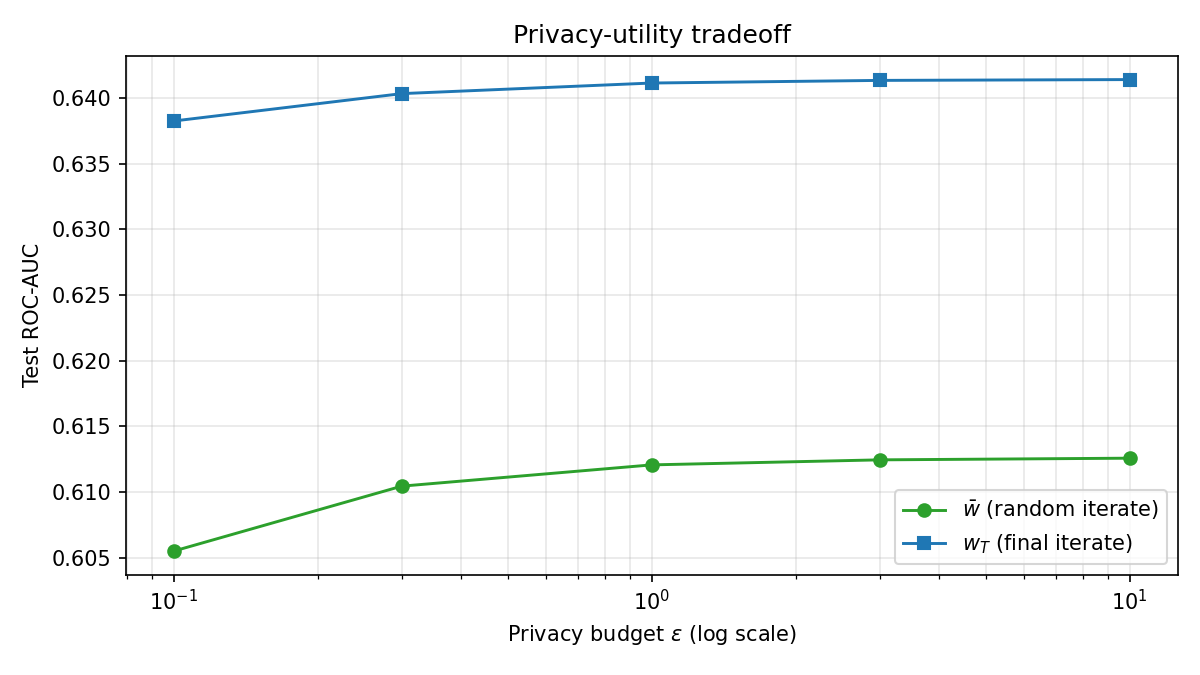
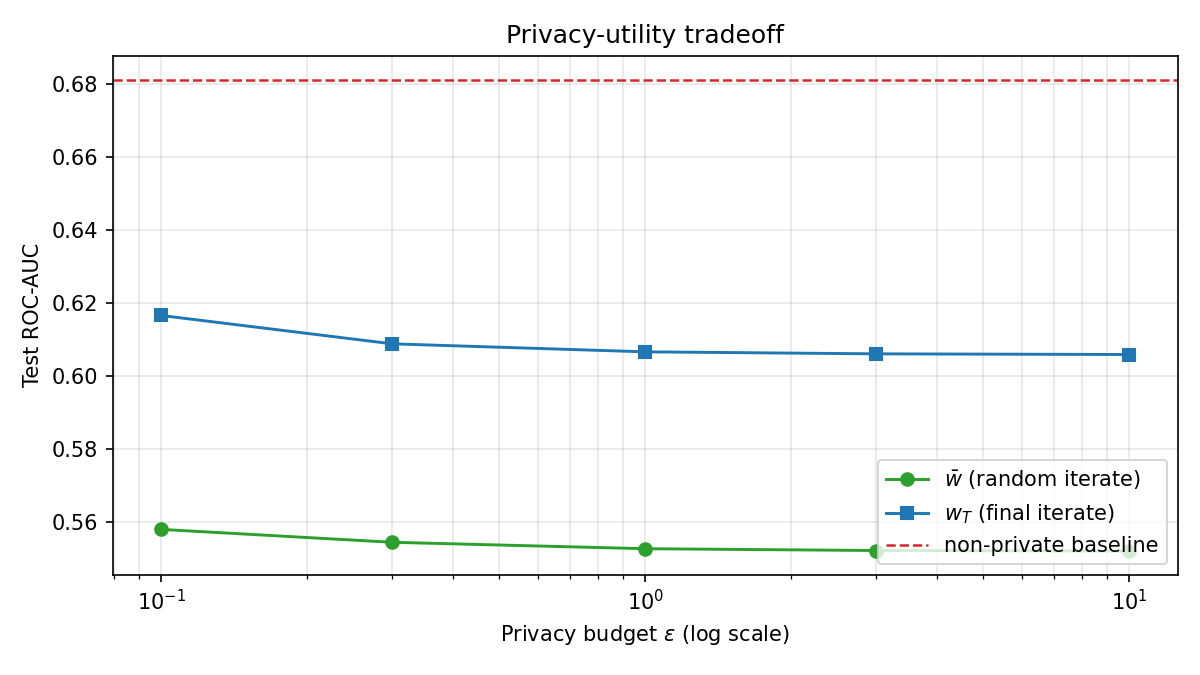
Non-private baseline reference line in privacy_utility_tradeoff (#5)
Adds an eta-swept non-private SPIDER baseline section before the epsilon
sweep (eta over [0.001, 0.01, 0.1], selected by params_random test AUC),
computed once, and draws it as a horizontal dashed reference line via a
new optional auc_baseline param on plot_epsilon_sweep (backward
compatible; None leaves the plot unchanged). Per ADR-0001.

diff --git a/examples/private_spiderboost/lib/visualization.py b/examples/private_spiderboost/lib/visualization.py
@@ -204,7 +204,8 @@ def plot_auc_history(eval_steps: Sequence[int], eval_auc: Sequence[float],
 def plot_epsilon_sweep(epsilons: Sequence[float],
                        auc_random: Sequence[float],
                        auc_final: Sequence[float],
-                       save_path: str | Path) -> plt.Figure:
+                       save_path: str | Path,
+                       auc_baseline: float | None = None) -> plt.Figure:
     """Plot test ROC-AUC vs. privacy budget ε (privacy-utility tradeoff).
 
     Parameters
@@ -218,6 +219,10 @@ def plot_epsilon_sweep(epsilons: Sequence[float],
         Test ROC-AUC of the final iterate ``w_T``, aligned with ``epsilons``.
     save_path : str or pathlib.Path
         Output PNG location.
+    auc_baseline : float or None, default None
+        Test ROC-AUC of the non-private SPIDER baseline (horizontal reference
+        line). When provided, draws a dashed red line labeled
+        "non-private baseline". When ``None``, the plot is unchanged.
 
     Returns
     -------
@@ -229,6 +234,9 @@ def plot_epsilon_sweep(epsilons: Sequence[float],
             label=r"$\bar w$ (random iterate)")
     ax.plot(epsilons, auc_final, marker="s", lw=1.4, color="tab:blue",
             label=r"$w_T$ (final iterate)")
+    if auc_baseline is not None:
+        ax.axhline(auc_baseline, ls="--", lw=1.2, color="tab:red",
+                   label="non-private baseline")
     ax.set_xscale("log")
     ax.set_xlabel(r"Privacy budget $\varepsilon$ (log scale)")
     ax.set_ylabel("Test ROC-AUC")
